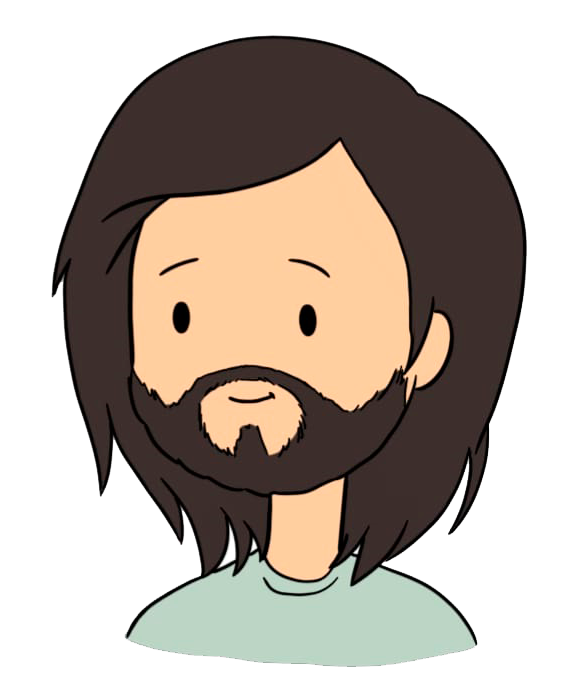
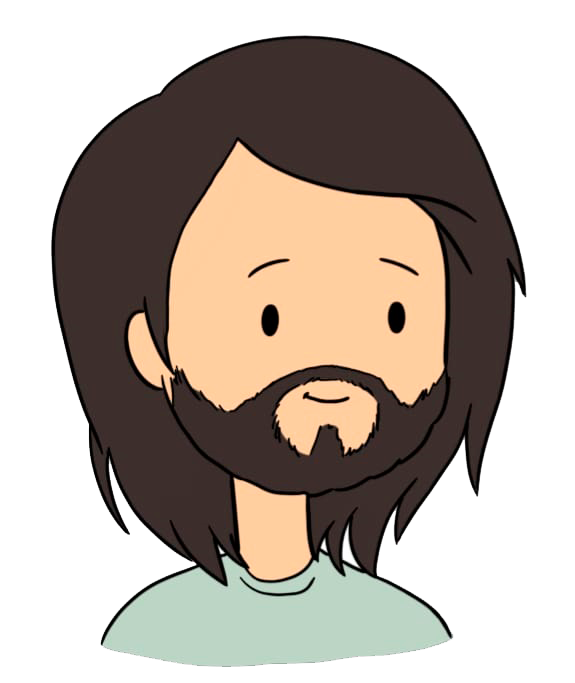
team member picture update

diff --git a/index.html b/index.html
@@ -20,6 +20,7 @@ and open the template in the editor.
         <script src="util/links/bootstrap.min.js" integrity="sha384-JjSmVgyd0p3pXB1rRibZUAYoIIy6OrQ6VrjIEaFf/nJGzIxFDsf4x0xIM+B07jRM" crossorigin="anonymous"></script>
         <script src="util/links/fontisawesome.js" crossorigin="anonymous"></script>
         <link href="https://fonts.googleapis.com/css2?family=Black+Ops+One&display=swap" rel="stylesheet">
+        
 
 
 
@@ -97,7 +98,7 @@ and open the template in the editor.
                     <div class="row">
                         <div class="col-sm" style="margin-top: 20px;">
                             <h5>Leandro Rodrigues da Silva:</h5>
-                            <img src="util/home/thiago2.png" width="150px;" style="margin-bottom: 10px;" />
+                            <img src="util/home/leandro.png" width="150px;" style="margin-bottom: 10px;" />
                             <ul class="list-unstyled">
                                 <li>
                                     <i class="fas fa-long-arrow-alt-right"></i> Atendimento ao cliente
